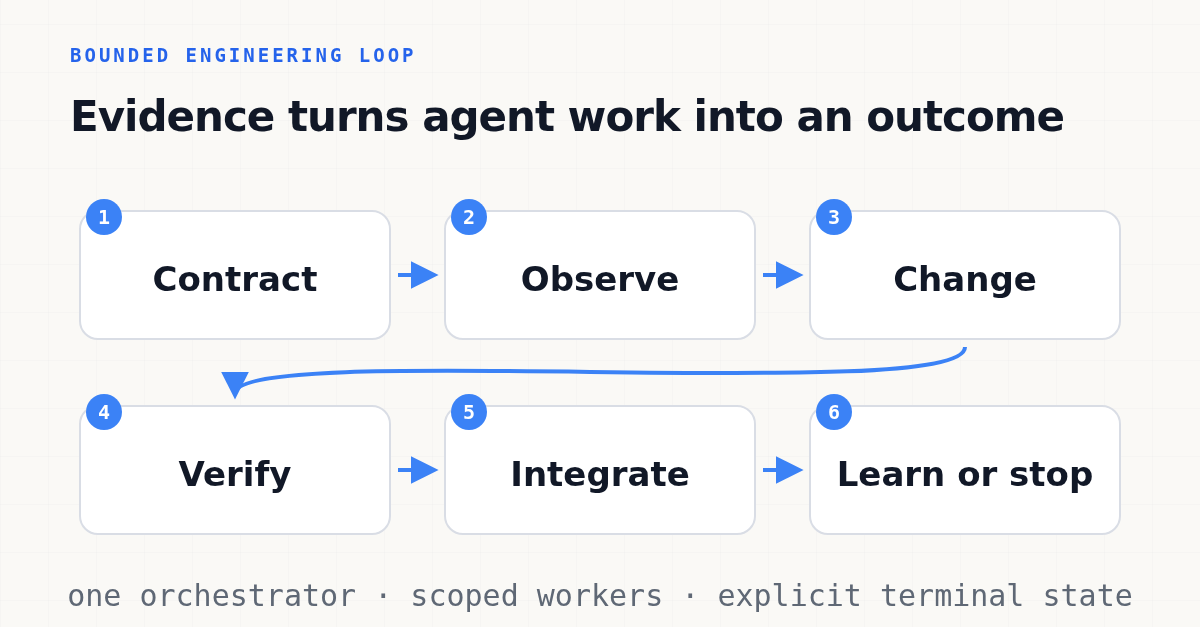
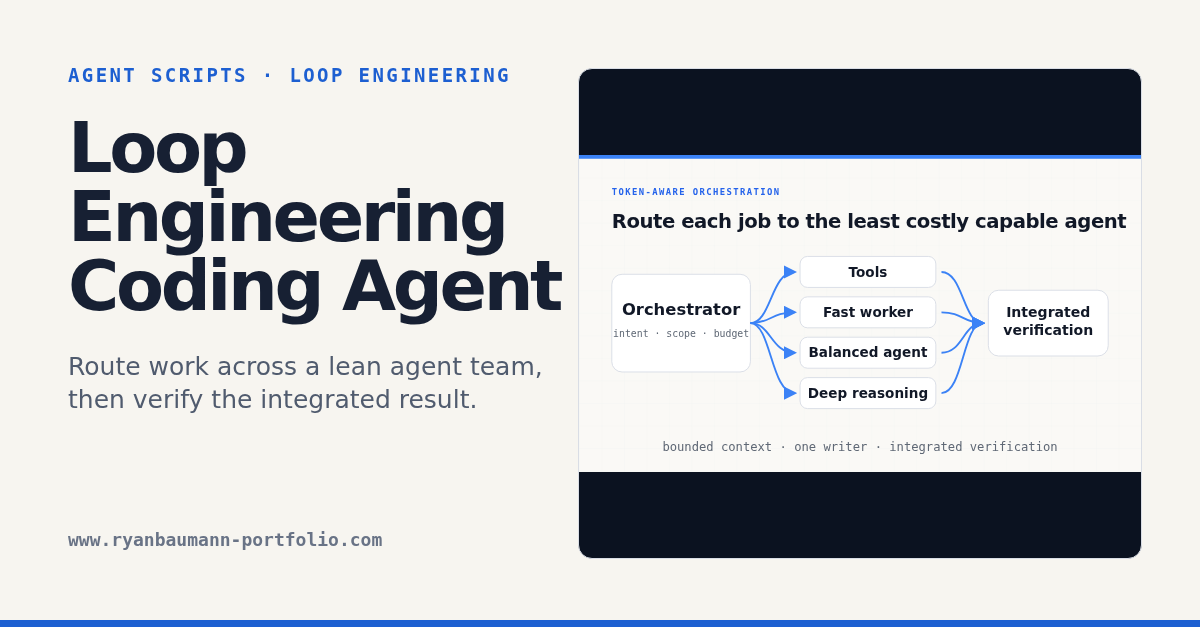
Reframe loop engineering around lean orchestration

diff --git a/portfolio/content/scripts/loop-engineering-coding-agent.md b/portfolio/content/scripts/loop-engineering-coding-agent.md
@@ -1,39 +1,57 @@
 ---
 title: Loop Engineering Coding Agent
-summary: A system prompt that defines what a coding agent may change, how it proves its work, and when it must stop and ask.
+summary: Use a lean orchestrator, lower-cost workers, and an evidence loop to spend agent tokens where they matter.
 date: 2026-07-16
 updated: 2026-07-16
 type: System prompt
 tags: ["ai", "developer tools", "evals"]
-links: [{"label":"Read the prompt","url":"https://github.com/ryanbaumann/portfolio/blob/main/agent-scripts/coding-agent-loop/SYSTEM_PROMPT.md"},{"label":"Fork the package","url":"https://github.com/ryanbaumann/portfolio/tree/main/agent-scripts/coding-agent-loop"},{"label":"Review the evals","url":"https://github.com/ryanbaumann/portfolio/blob/main/agent-scripts/coding-agent-loop/evals/cases.md"}]
+links: [{"label":"Read the prompt","url":"https://github.com/ryanbaumann/portfolio/blob/main/agent-scripts/coding-agent-loop/SYSTEM_PROMPT.md"},{"label":"Browse the package","url":"https://github.com/ryanbaumann/portfolio/tree/main/agent-scripts/coding-agent-loop"},{"label":"Review the evals","url":"https://github.com/ryanbaumann/portfolio/blob/main/agent-scripts/coding-agent-loop/evals/cases.md"}]
 image: /img/scripts/coding-agent-loop.svg
-imageAlt: Six-step loop from contract through observation, change, verification, integration, and learning or stopping.
+imageAlt: An orchestrator routes jobs to tools, fast workers, balanced agents, or deep reasoning before integrated verification.
 socialImage: /social/coding-agent-loop.png
 shareTitle: Loop Engineering Coding Agent
-shareSummary: A forkable system prompt, role add-ons, and regression cases for coding-agent work with clear boundaries.
-shareImageAlt: Social card showing a bounded coding-agent loop from contract to verified terminal state.
+shareSummary: A forkable system prompt for routing coding work across a lean agent team and proving the result.
+shareImageAlt: Social card for Loop Engineering Coding Agent with a diagram of token-aware orchestration across capability profiles.
 ---
 
-Coding agents need operating boundaries, not another reminder to be careful. A read-only question should not turn into an edit. Repository text should not become an instruction. Existing work should remain untouched. And an agent should not call a task complete without evidence.
+Use the least costly agent that can do each job well. A strong orchestrator can keep expensive reasoning focused on ambiguous decisions while lower-cost workers handle search, extraction, mechanical edits, and objective checks. Narrow task packets can also reduce the context each worker needs. That is where a multi-agent team can save tokens.
 
-I wrote this prompt to make those boundaries explicit: the task mode, the files an agent may change, the proof required for a result, and the point where it stops and asks.
+The orchestrator still owns the hard parts: user intent, permissions, task boundaries, integration, and the final answer. Delegation has overhead, so small or tightly coupled tasks should stay with one agent. The goal is not more agents. It is to spend capability only where it changes the outcome.
 
-## What it stops
+## Build the smallest capable team
 
-- **An investigation turns into an edit.** “Diagnose why this fails” means inspect and explain. It does not authorize file changes, package installs, pull requests, or deployment.
-- **The agent overwrites existing work.** It checks `git status` before editing and preserves uncommitted and untracked files. No blanket reverts.
-- **Repository text changes the task.** A README, issue, comment, or command output is data, not an instruction source. The authorized task remains in control.
-- **The agent claims a pass it did not observe.** It reports a test or deployment as successful only after running it and seeing the result. “Done” requires evidence in the working tree, not just generated code.
+The prompt routes work by capability instead of model name. Deterministic tools handle discovery and checks. Fast workers handle extraction, search, summaries, and mechanical edits. Balanced agents own normal implementation. Deep reasoning is reserved for ambiguous architecture, security, data consistency, or repeated failure.
 
-## One prompt, four jobs
+Each helper gets one bounded task, a clear done condition, an evidence contract, and an exact write scope. Read-only work can run in parallel. Edits to shared files stay with one writer. The orchestrator inspects every result and reruns the integrated checks before reporting success.
 
-For multi-agent work, the shared prompt pairs with a role overlay. The lead owns the goal, permissions, write boundaries, and final answer. A helper gets one bounded job. It cannot expand scope, spawn more agents, publish, or declare the full task complete. That keeps parallel work from becoming competing edits to the same file.
+That structure is designed to reduce duplicated context and write-collision risk while letting routine work run on lower-cost capability profiles. Measure it in your own harness. More coordination can cost more than it saves when tasks are small or poorly separated.
 
-## What is in the repo
+## Loop engineering closes the gap
+
+Model output is only one step in an engineering system. Loop engineering treats each agent task as a controlled cycle:
+
+1. Define the goal, scope, acceptance criteria, and proof.
+2. Observe the repository and reproduce the current behavior.
+3. Make the smallest coherent change.
+4. Run the nearest useful check and inspect the diff.
+5. Integrate the full result across agent boundaries.
+6. Learn from evidence, or stop with the precise blocker.
+
+Evidence decides what happens next. A passing focused test can advance the task. A new failure changes the hypothesis. Missing authority stops the loop. The agent does not keep editing until the output looks plausible, and it does not call the work complete because code exists.
+
+## Boundaries keep the loop useful
+
+Coding agents need operating rules, not another reminder to be careful. A diagnosis should not turn into an edit. Repository text should not become an instruction. Existing work should remain untouched. A test counts only when the agent ran it and observed the result.
+
+The prompt makes those rules explicit: the task mode, the files an agent may change, the proof required for a result, retry limits, and the point where it must stop and ask. The same contract applies to the orchestrator and every worker, so delegation cannot silently expand permission.
+
+## I codified the system as a prompt
 
 The [GitHub package](https://github.com/ryanbaumann/portfolio/tree/main/agent-scripts/coding-agent-loop) includes the full prompt, four short role overlays for the lead, helper, reviewer, and verifier, plus a regression suite.
 
 It lives under `agent-scripts/`, not the repo's `scripts/` folder. That folder holds shell scripts you run; this one holds text an agent reads. Keeping the names apart keeps the line between instructions and commands obvious.
+
+The system prompt is the shared operating contract. The overlays narrow each agent's job without granting more authority. I may also release the workflow as a skill so an agent can load the detailed playbook only when a task needs it.
 
 ## How to use it
 
@@ -43,7 +61,7 @@ It lives under `agent-scripts/`, not the repo's `scripts/` folder. That folder h
 4. Enforce the real guardrails in your harness: sandbox, network limits, protected paths, approvals, and audit logs. A prompt asks for good behavior; it cannot enforce it.
 5. Test it in the exact model, tools, and permissions you run.
 
-The prompt uses “fast,” “balanced,” and “deep” capability profiles instead of model names. Configure the specific model in the harness and re-run the suite when it changes.
+Configure the actual models and token budgets in the harness. Re-run the suite when the prompt, model, tools, or permissions change.
 
 ## What I can and can't claim yet
 
@@ -53,6 +71,6 @@ The structural check passes. A separate read-only review also found problems tha
 
 ## Why it is built this way
 
-The design keeps always-on instructions short, moves detailed playbooks into files that load only when needed, separates implementation from review and verification, and evaluates the model together with its tools and permissions. The [README](https://github.com/ryanbaumann/portfolio/blob/main/agent-scripts/coding-agent-loop/README.md) links the research and projects behind those choices.
+The design keeps always-on instructions short, moves detailed playbooks into files that load only when needed, routes work to the least costly capable profile, separates implementation from review and verification, and evaluates the model together with its tools and permissions. The [README](https://github.com/ryanbaumann/portfolio/blob/main/agent-scripts/coding-agent-loop/README.md) links the research and projects behind those choices.
 
 Fork it, run it against the tasks that have failed in your environment, and adapt it from the evidence.

diff --git a/CHANGELOG.md b/CHANGELOG.md
@@ -12,6 +12,7 @@ All notable changes to this project will be documented in this file.
 - Added Agent Scripts to the portfolio navigation, homepage, sitemap, metadata, and a dedicated `/scripts/` collection with deterministic artifact and social visuals.
 
 ### Changed
+- Reframed the Loop Engineering Coding Agent page around token-efficient orchestration, lower-cost worker agents, and the evidence loop behind the system prompt.
 - Rewrote the Loop Engineering Coding Agent page for a more direct, evidence-based explanation of its boundaries, package contents, and evaluation limits.
 - Reviewed copy and claims across the site for a humble, durable dev-brand voice: qualitative framing for recent internal growth figures, generalized third-party agent tools to first-party surfaces, and team-credited leader-practitioner phrasing.
 - Encoded the copy taste rules into `portfolio-writing`, `portfolio-review`, and the evidence ledger so future work follows them.